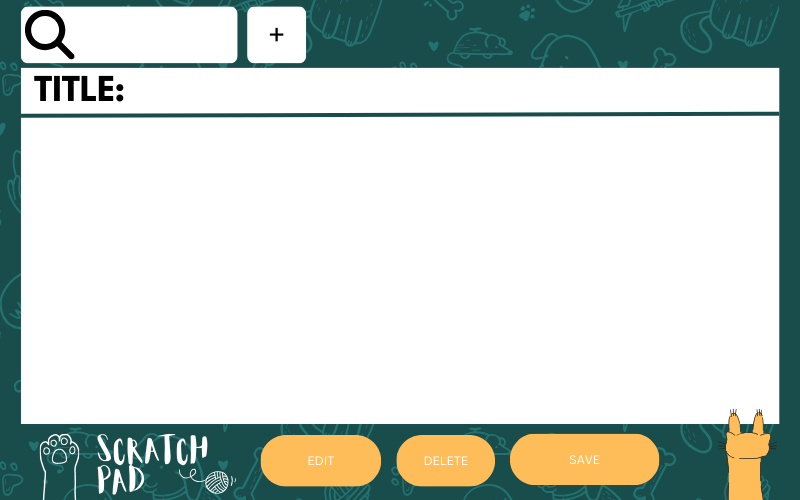
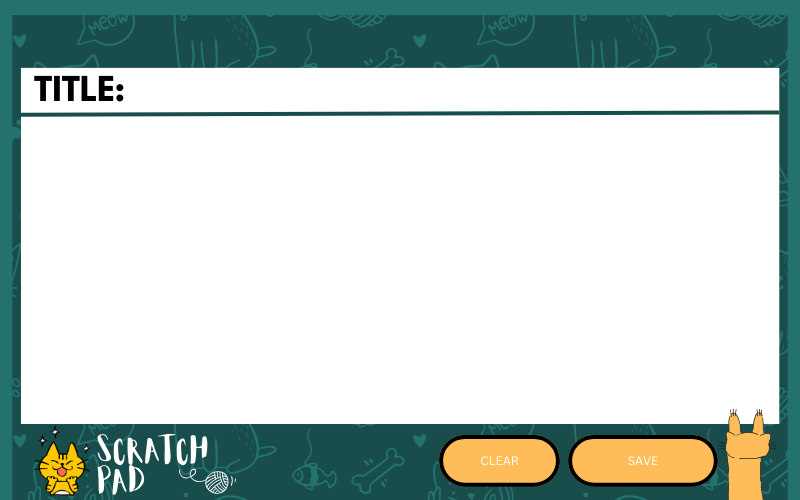
base of notebook

diff --git a/scratchpad.py b/scratchpad.py
@@ -2,7 +2,7 @@ from tkinter import *
 import sqlite3
 
 #database
-connect=sqlite3.connect('notes.db')
+connect=sqlite3.connect('nota.db')
 cursor=connect.cursor() #allow you to send SQL commands to database
 cursor.execute("CREATE TABLE IF NOT EXISTS notes (title PRIMARY KEY, content TEXT)")
 connect.commit()
@@ -20,17 +20,15 @@ bg.pack()
 
 #title-----------------------------------------------------------
 
-title=Entry(note, width='45', font='comfortaa 17 bold', bd=0)
-title.place(x='150', y='75')
-content=Text(note, width=93, height=16, bd=0, font='arial,  11', undo=True)
-content.place(x='22', y='125')
+title_entry=Entry(note, width='45', font='comfortaa 17 bold', bd=0)
+title_entry.place(x='150', y='75')
+content_entry=Text(note, width=93, height=16, bd=0, font='arial,  11', undo=True)
+content_entry.place(x='22', y='125')
 #add new notes--------------------------------------------------
 
 def add_note():
-    title=Entry(note, width='45', font='comfortaa 17 bold', bd=0)
-    title.place(x='150', y='75')
-    content=Text(note, width=93, height=16, bd=0, font='arial,  11', undo=True)
-    content.place(x='22', y='125')
+    title_entry.delete(0, END)
+    content_entry.delete('1.0', END)
     
 save_button=Button(note, text='+', font='comfortaa 15 bold', bg='white', bd=0, command=add_note).place(x='270',y='10')
     
@@ -38,14 +36,19 @@ save_button=Button(note, text='+', font='comfortaa 15 bold', bg='white', bd=0, c
     
 #save into mote-------------------------------------
 def save_note():
-    note_add="INSERT INTO notes(title,content) values('%s1','%s')" % (title, content)
-    cursor.execute(note_add)
+    global title_entry
+    title = title_entry.get()
+    content = content_entry.get("1.0", "end-1c")
+    note_save="INSERT OR IGNORE INTO notes(title,content) VALUES ('%s1','%s')" % (title, content)
+    cursor.execute(note_save)
     connect.commit()
     
 save_button=Button(note, text='SAVE', font='comfortaa 15 bold', bg=yellow, bd=0, command=save_note).place(x='525',y='440')
     
 #edit current note----------------------
 def edit_note():
+    title = title_entry.get()
+    content = content_entry.get("1.0", "end-1c")
     note_edit="UPDATE notes SET content='%s' where title='%s1'" % (content,title)
     cursor.execute(note_edit)
     connect.commit()
@@ -55,6 +58,7 @@ edit_button=Button(note, text='EDIT', font='comfortaa 15 bold', bg=yellow, bd=0,
 #delete note-------------------------------------------------
 
 def delete_note():
+    title = title_entry.get()
     note_delete="DELETE FROM notes WHERE title='%s1'"%(title)
     cursor.execute(note_delete)
     connect.commit()
@@ -62,10 +66,21 @@ def delete_note():
 delete_button=Button(note, text='DELETE', font='comfortaa 15 bold', bg=yellow, bd=0, command=save_note).place(x='275',y='440')
 
 def search_note():
+    search_window=Toplevel()
+    search_window.title('View My Files')
+    search_window.geometry('500x300')
+    search_window.resizable(False,False)
+    filelist=Listbox(search_window, font=('comfortaa 12 bold'))
+    
+    cursor.execute("SELECT * FROM notes")
+    t=cursor.fetchall()
+    for title in t:
+        filelist.insert(END, title)
     cursor.execute("SELECT * FROM notes")
     t=cursor.fetchall()
     for title in t:
         print(title)
+     
         
 searchicon=PhotoImage(file='./images/search_icon.png')
 search_button=Button(note, image=searchicon, font='comfortaa 16 bold', bg='white', bd=0, command=search_note).place(x='25',y='10')

diff --git a/takud.py b/takud.py
@@ -1,0 +1,70 @@
+from tkinter import *
+from tkinter import ttk
+import sqlite3
+
+# Database
+connect = sqlite3.connect('nota.db')
+cursor = connect.cursor()
+cursor.execute("CREATE TABLE IF NOT EXISTS notes (title PRIMARY KEY, content TEXT)")
+connect.commit()
+
+# Parameters
+yellow = '#FFBD59'
+
+# Window
+note = Tk()
+note.title('ScratchPad')
+note.geometry('800x500')
+
+# Tabs
+notebook = ttk.Notebook(note)
+notebook.pack(fill='both', expand=True)
+
+# Tab 1 - Add new note
+tab1 = Frame(notebook)
+notebook.add(tab1, text='Add New Note')
+
+title_entry = Entry(tab1, width='45', font='comfortaa 17 bold', bd=0)
+title_entry.pack(pady=10)
+
+content_entry = Text(tab1, width=93, height=16, bd=0, font='arial,  11', undo=True)
+content_entry.pack()
+
+def add_note():
+    title = title_entry.get()
+    content = content_entry.get("1.0", "end-1c")
+    note_save = "INSERT OR IGNORE INTO notes(title,content) VALUES (?, ?)"
+    cursor.execute(note_save, (title, content))
+    connect.commit()
+    title_entry.delete(0, END)
+    content_entry.delete('1.0', END)
+
+save_button = Button(tab1, text='+', font='comfortaa 15 bold', bg='white', bd=0, command=add_note)
+save_button.pack(pady=10)
+
+# Tab 2 - Search and view note
+tab2 = Frame(notebook)
+notebook.add(tab2, text='Search and View Note')
+
+search_text = Entry(tab2, bd=0, width='10', font=('comfortaa 12 bold'))
+search_text.pack(pady=10)
+
+def search():
+    title = search_text.get()
+    searchquery = "SELECT * FROM notes WHERE title=?"
+    cursor.execute(searchquery, (title,))
+    note1 = cursor.fetchone()
+    if note1:
+        content_entry.delete("1.0", END)
+        content_entry.insert(END, note1[1])
+    else:
+        content_entry.delete("1.0", END)
+        content_entry.insert(END, 'NOTE NOT FOUND')
+
+search_button = Button(tab2, text="Search", font='comfortaa 12 bold', bg=yellow, bd=0, command=search)
+search_button.pack(pady=10)
+
+content_entry = Text(tab2, width=93, height=16, bd=0, font='arial,  11', undo=True)
+content_entry.pack()
+
+note.mainloop()
